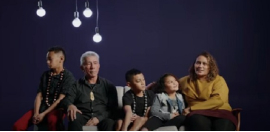
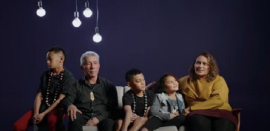
Image Fix & Comments
In this version I used tools to crop the image slightly to remove the white line that was on them. I also added additional comments to the html file.

diff --git a/about-matariki.html b/about-matariki.html
@@ -68,10 +68,15 @@
           <br />
           <div>
             <button class="reference-btn reference-btn-right">
-                i
-                <a href="" target="_blank" class="reference-btn-link">From: www.source.com/</a>
+              i
+              <a href="" target="_blank" class="reference-btn-link"
+                >From: www.source.com/</a
+              >
             </button>
-            <img src="images/about-matariki-1.jpg" alt="Man watching Matariki" />
+            <img
+              src="images/about-matariki-1.jpg"
+              alt="Man watching Matariki"
+            />
           </div>
           <br />
           <p>
@@ -148,8 +153,10 @@
           <div>
             <img src="images/about-matariki-2.jpg" alt="Matariki Stars" />
             <button class="reference-btn reference-btn-right">
-                i
-                <a href="" target="_blank" class="reference-btn-link">From: www.source.com/</a>
+              i
+              <a href="" target="_blank" class="reference-btn-link"
+                >From: www.source.com/</a
+              >
             </button>
           </div>
           <br />
@@ -161,16 +168,22 @@
           <br />
           <ul>
             <li>
-              <p><b>Remembrance</b> – Honouring those we have lost since the last
-                rising of Matariki</p>
+              <p>
+                <b>Remembrance</b> – Honouring those we have lost since the last
+                rising of Matariki
+              </p>
             </li>
             <li>
-              <p><b>Celebrating the present</b> – Gathering together to give thanks
-                for what we have</p>
+              <p>
+                <b>Celebrating the present</b> – Gathering together to give
+                thanks for what we have
+              </p>
             </li>
             <li>
-              <p><b>Looking to the future</b> – Looking forward to the promise of a
-                new year</p>
+              <p>
+                <b>Looking to the future</b> – Looking forward to the promise of
+                a new year
+              </p>
             </li>
           </ul>
           <br />
@@ -203,7 +216,9 @@
             various iwi was represented.
           </p>
         </div>
+        <!-- Side Bar-->
         <div class="side-bar">
+          <!-- Side Bar - Resource Cards -->
           <div class="resources-bar">
             <h4>MORE RESOURCES</h4>
             <div class="resource-card">
@@ -235,6 +250,8 @@
               </p>
             </div>
           </div>
+
+          <!-- Side Bar - Video Cards -->
           <div class="videos-bar">
             <h4>VIDEOS</h4>
             <div class="video-card">
